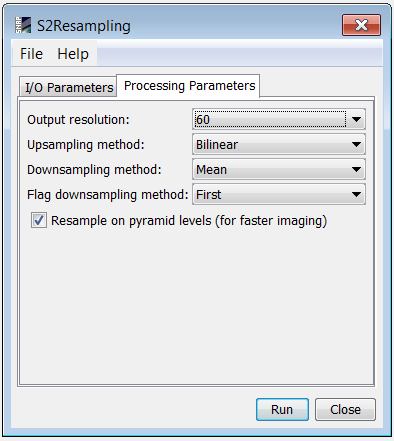
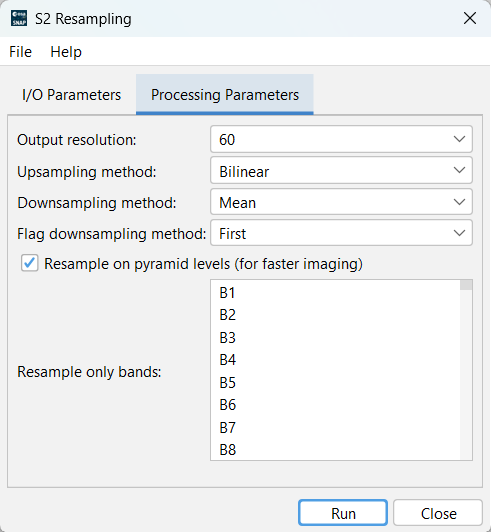
Help update

diff --git a/opttbx-s2msi-resampler-ui/src/main/javahelp/eu/esa/opt/opttbx/s2msi/resampler/docs/s2resampler.html b/opttbx-s2msi-resampler-ui/src/main/javahelp/eu/esa/opt/opttbx/s2msi/resampler/docs/s2resampler.html
@@ -92,6 +92,12 @@
             resamplings are only retrieved when zooming in on a pixel.
         </td>
     </tr>
+    <tr>
+        <td><strong>Resample only bands</strong></td>
+        <td>Resample only a subset of the product bands. Many times there is no need to resample all the bands,
+            because only a few will be used. By selecting a subset of bands, the resample time significantly decreases.
+        </td>
+    </tr>
     </tbody>
 </table>
 

diff --git a/opttbx-s2msi-resampler/src/main/java/eu/esa/opt/s2msi/resampler/S2ResamplingOp.java b/opttbx-s2msi-resampler/src/main/java/eu/esa/opt/s2msi/resampler/S2ResamplingOp.java
@@ -1,7 +1,6 @@
 package eu.esa.opt.s2msi.resampler;
 
 import com.bc.ceres.core.ProgressMonitor;
-import com.bc.ceres.glevel.MultiLevelImage;
 import org.esa.snap.core.datamodel.Band;
 import org.esa.snap.core.datamodel.Product;
 import org.esa.snap.core.gpf.Operator;
@@ -94,10 +93,10 @@ public class S2ResamplingOp extends Operator {
 
         targetProduct = s2Resampler.resample(sourceProduct);
         if (this.targetProduct.getBandIndex("view_zenith_mean") >= 0) {
-            this.targetProduct.getBand("view_zenith_mean").setSourceImage((MultiLevelImage) null);
+            this.targetProduct.getBand("view_zenith_mean").setSourceImage(null);
         }
         if (this.targetProduct.getBandIndex("view_azimuth_mean") >= 0) {
-            this.targetProduct.getBand("view_azimuth_mean").setSourceImage((MultiLevelImage) null);
+            this.targetProduct.getBand("view_azimuth_mean").setSourceImage(null);
         }
     }
 
